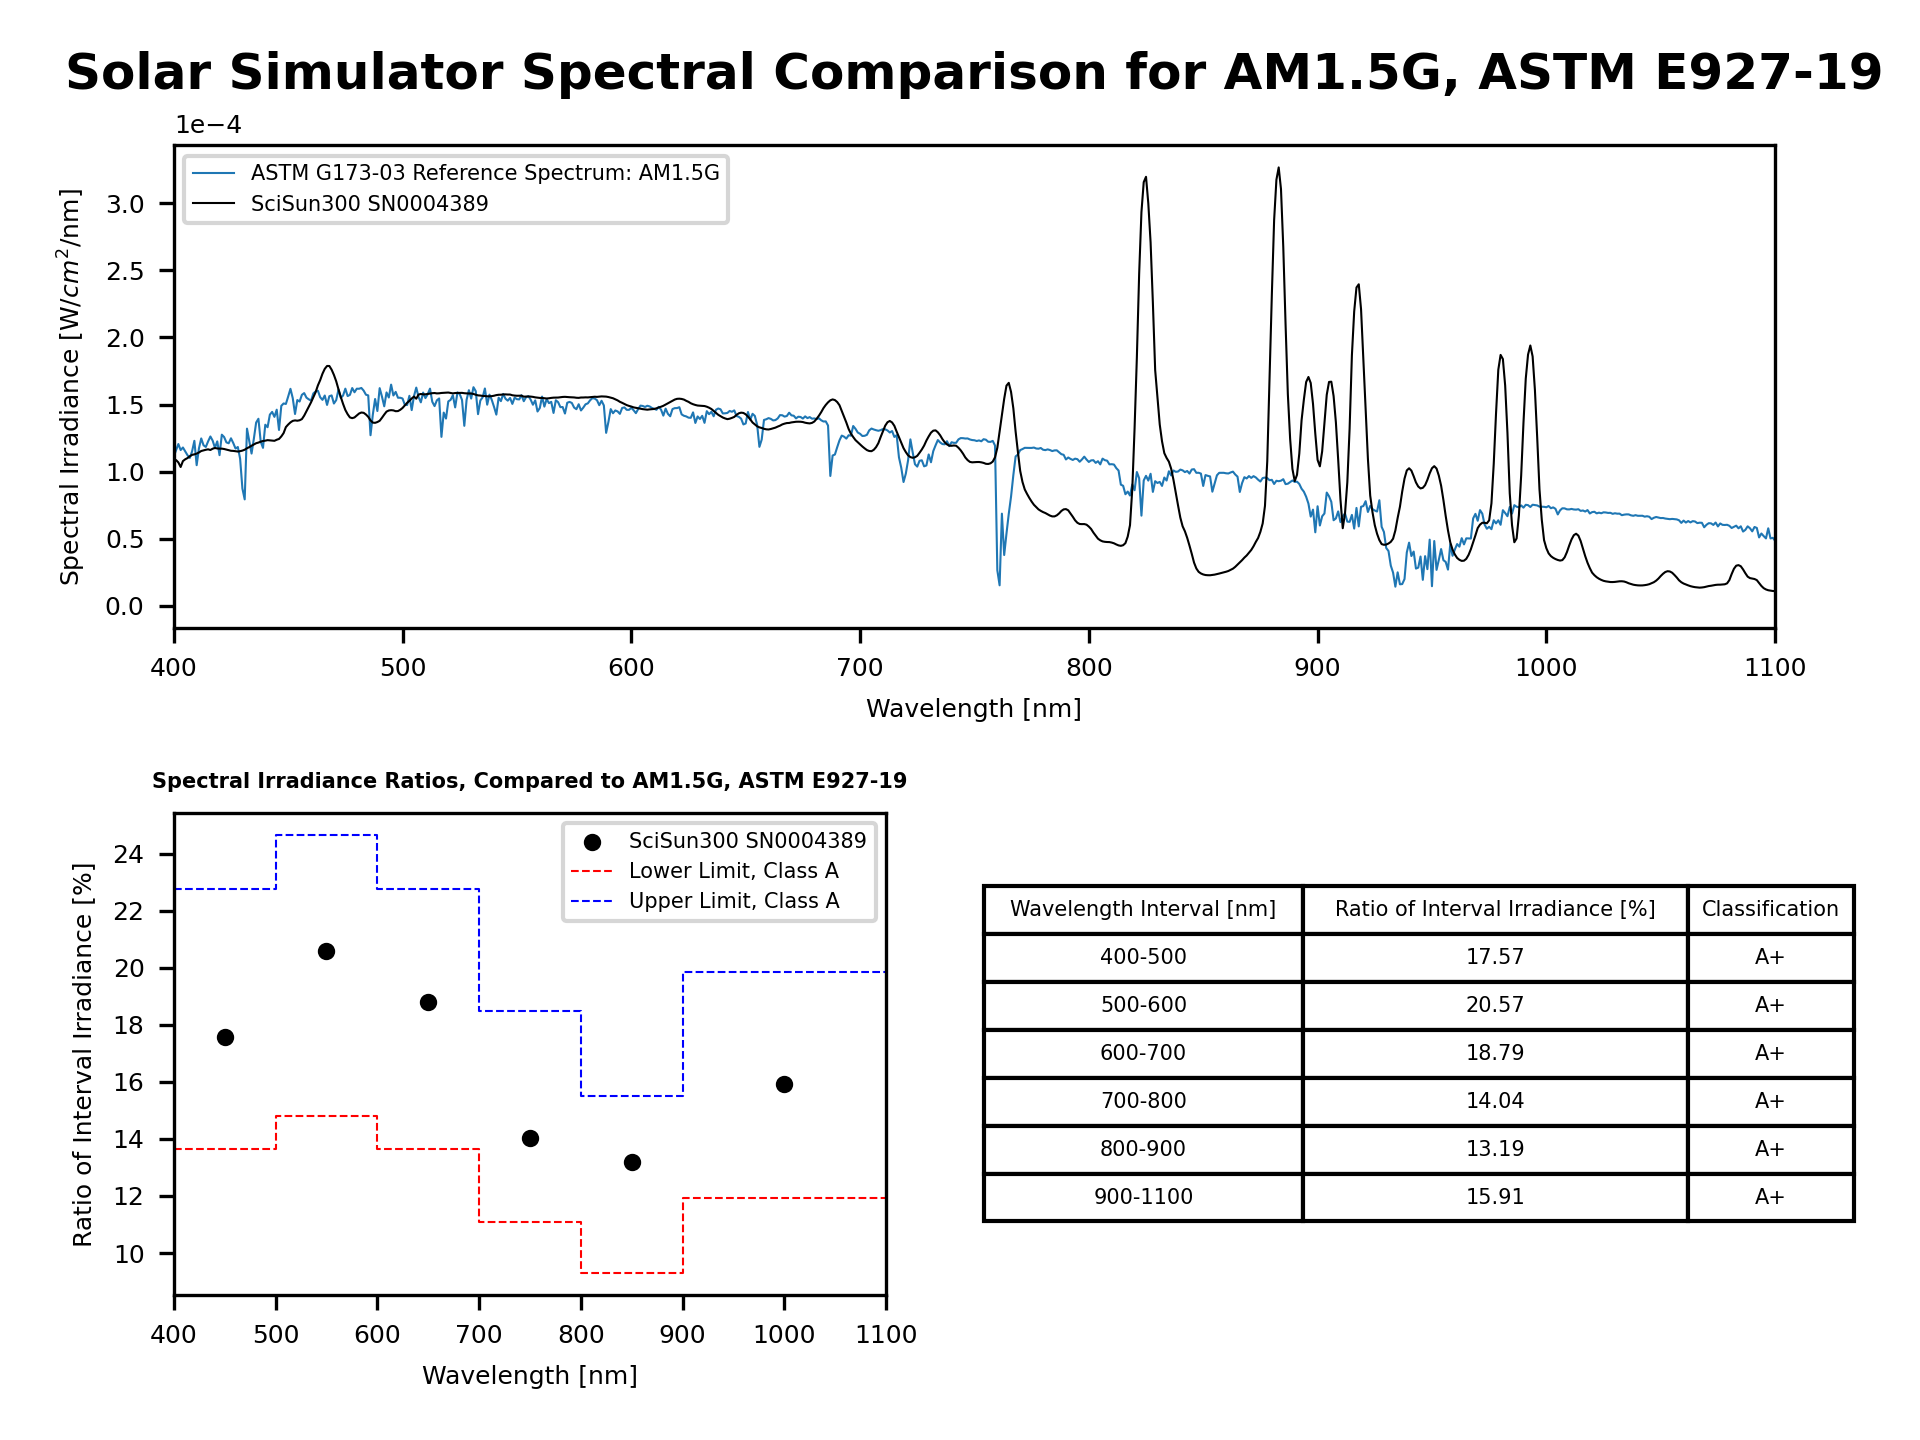
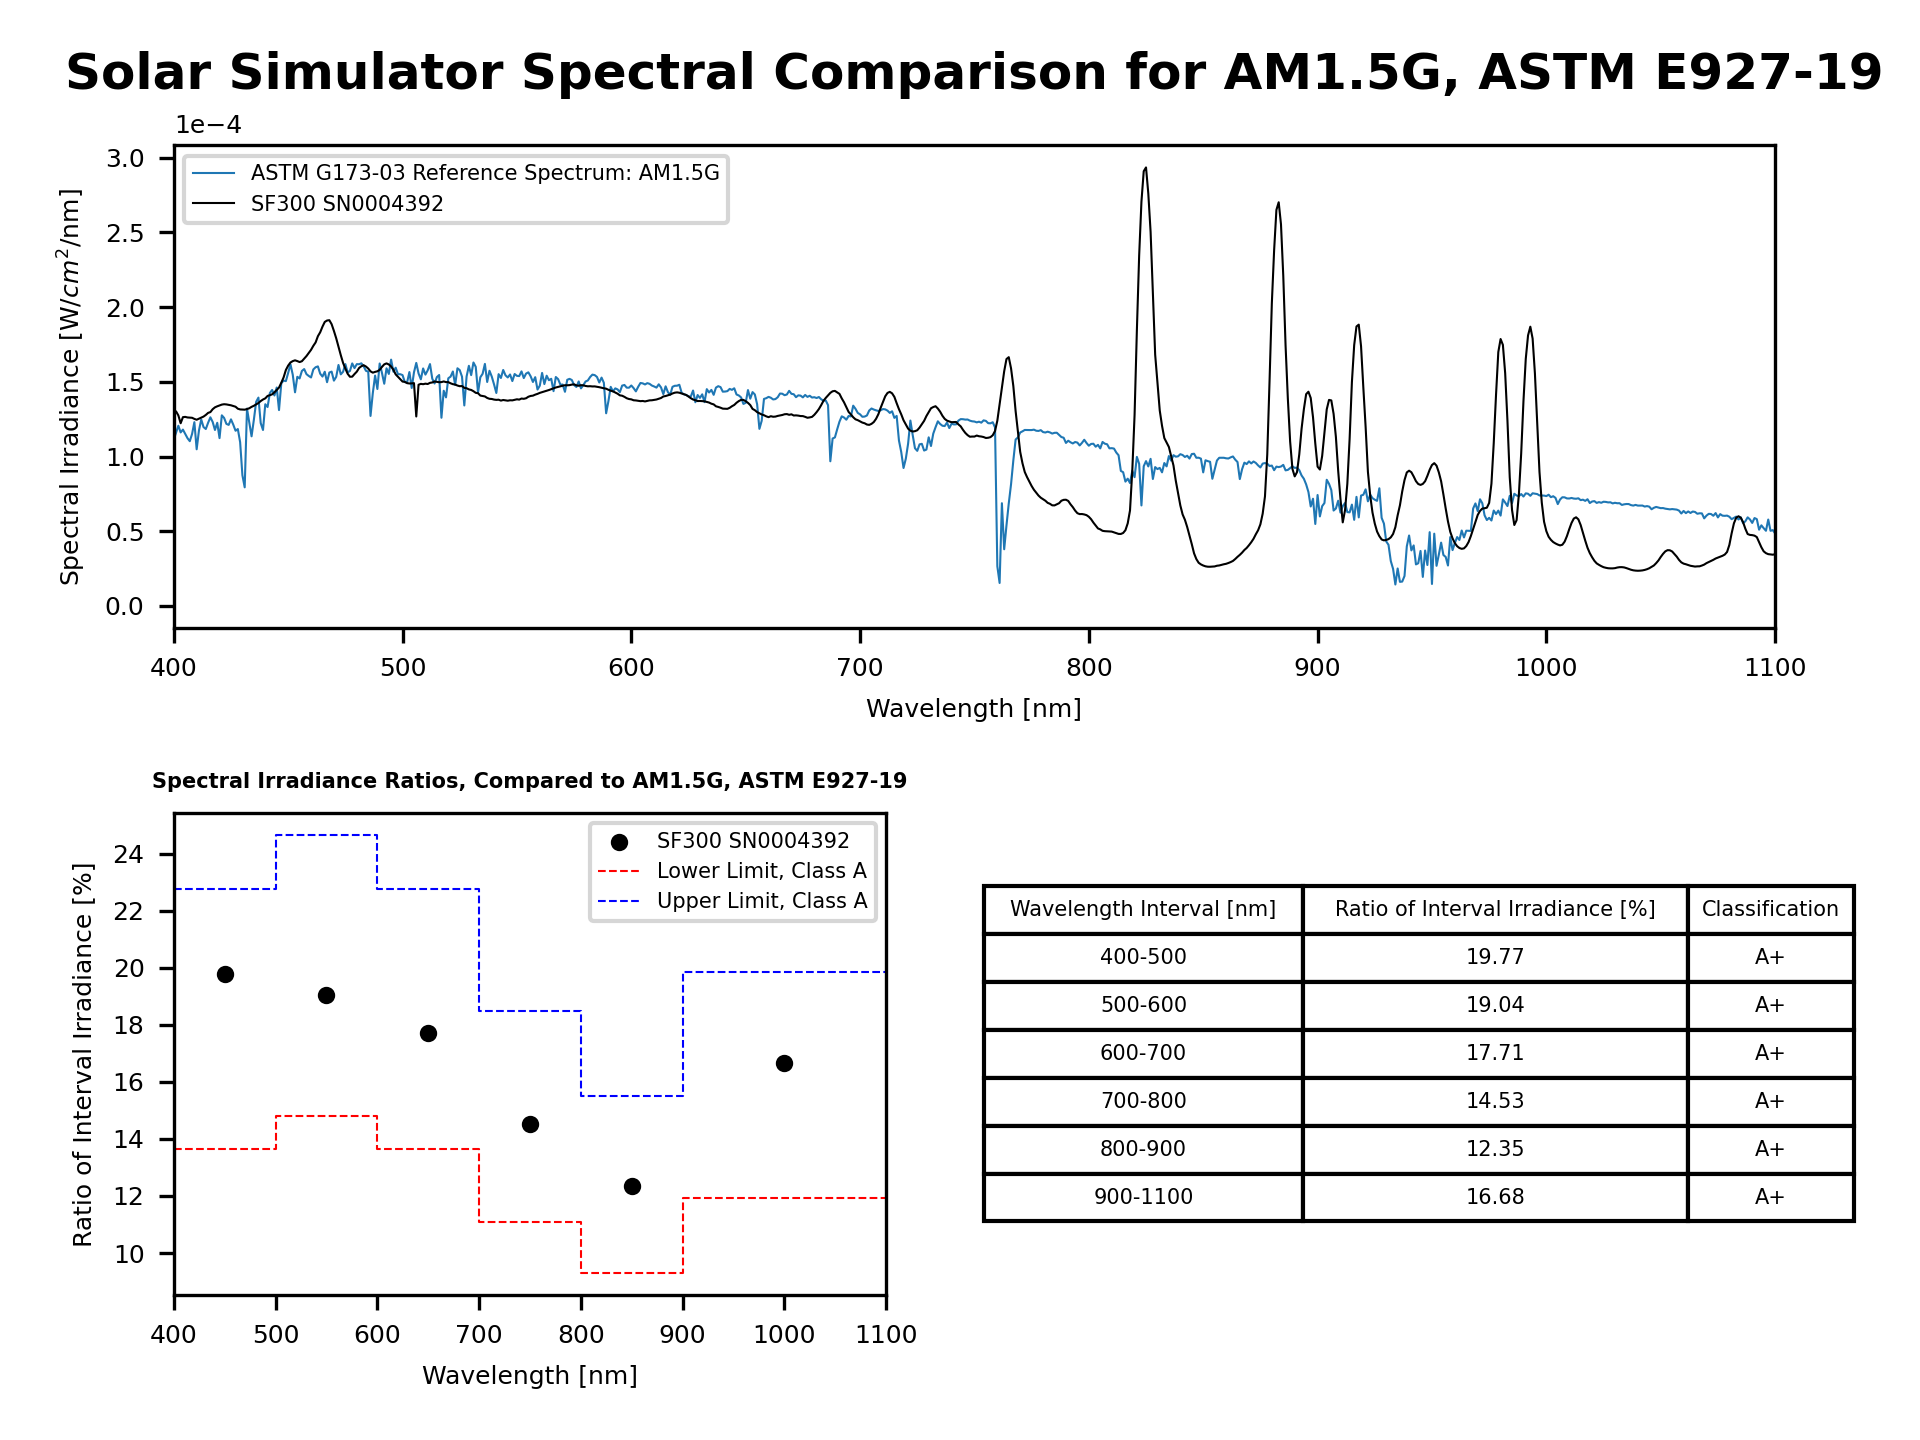
some updates added for SF reports

diff --git a/uisf.py b/uisf.py
@@ -216,18 +216,6 @@ else:
 st.header("Spectrometry Analysis")
 
 
-silicons = {
-    "Si Low Gain": '2',
-    "Si High Gain": '1',
-    "No Si": '3'
-}
-
-igas = {
-    "No IGA": '3',
-    "IGA Low Gain": '2',
-    "IGA High Gain": '1',
-}
-
 standards = {
     "AM1.5G Hemispherical ASTM E927-19": '2',
     "AM1.5D Direct Normal ASTM E927-19": '1',
@@ -240,26 +228,13 @@ standards = {
 
 col11, col22 = st.columns(2)
 with col11:
-    user_si = st.selectbox("Silicon:", list(silicons.keys()))
-    status_Si = silicons[user_si]
-with col11:
-    user_iga = st.selectbox("IGA:", list(igas.keys()))
-    status_IGA = igas[user_iga]    
-with col22:
     user_am = st.selectbox("The Standard:", list(standards.keys()))
     AMType = standards[user_am]  
-
-with col22:
-    crosspoint = st.text_input(
-        "Crosspoint:",
-        "1100",
-        key="cross",
-    )
 
 
 label = st.text_input(
     "Label the data for the plot:",
-    "SciSun300 SN0001234",
+    "SF300 SN0001234",
     key="label",
 )
 
@@ -276,11 +251,10 @@ if uploaded_full:
     st.success("File successfully parsed.")
 
 
-
     SM_report = SMScript2(AMType, result, label)
     st.write("Results:", SM_report)
 
-    df = SM_report['df']
+    # df = SM_report['df']
     csv_data_SM = df.to_csv(index=False).encode('utf-8')
 else:
     st.error("SM file not uploaded")
@@ -384,7 +358,7 @@ if SM and TI and NU:
             
             # insert image right after the current paragraph
             run = para.insert_paragraph_before().add_run()
-            run.add_picture("output/NU.png", width=Inches(7))
+            run.add_picture("output/NUbar.png", width=Inches(7))
             break
 
 

diff --git a/core/SciImports.py b/core/SciImports.py
@@ -178,6 +178,7 @@ def sidatImport(uploaded_file):
 
     # Build the dictionary to return
     theDictionary = {
+        'test' : 'test',
         'wavelengths': fileData['Wavelength(nm)'],
         'signal': fileData['Signal(V)'],
         'transfer function' : fileData['Transfer_Function(W/m2/nm/V)'],
@@ -189,9 +190,9 @@ def sidatImport(uploaded_file):
         'filename': headerData['Values'][0],
         'date': headerData['Values'][1],
         'monoModel': headerData['Values'][5],
-        'startWave': headerData['Values'][7],
-        'stopWave': headerData['Values'][8],
-        'stepSize': headerData['Values'][9],
+        'startWave': headerData['Values'][8],
+        'stopWave': headerData['Values'][9],
+        'stepSize': headerData['Values'][10],
     }
 
     print(theDictionary['filename'] + ' has been successfully imported.')

diff --git a/core/SolarSimScripts.py b/core/SolarSimScripts.py
@@ -104,6 +104,7 @@ def NUScript(nuData):
         
         report_d = {
             'Filename': nuData['filename'],
+            'Number of Measurement Points': len(nuData['Xs']),
             'Date of Measurement': nuData['date'],
             'Target Area Diameter [cm]': statistics.mean([np.max(nuData['Xs']) - np.min(nuData['Xs']), np.max(nuData['Ys']) - np.min(nuData['Ys'])]),
             'Ideal Detector Area [cm^2]': nuData['detArea'],
